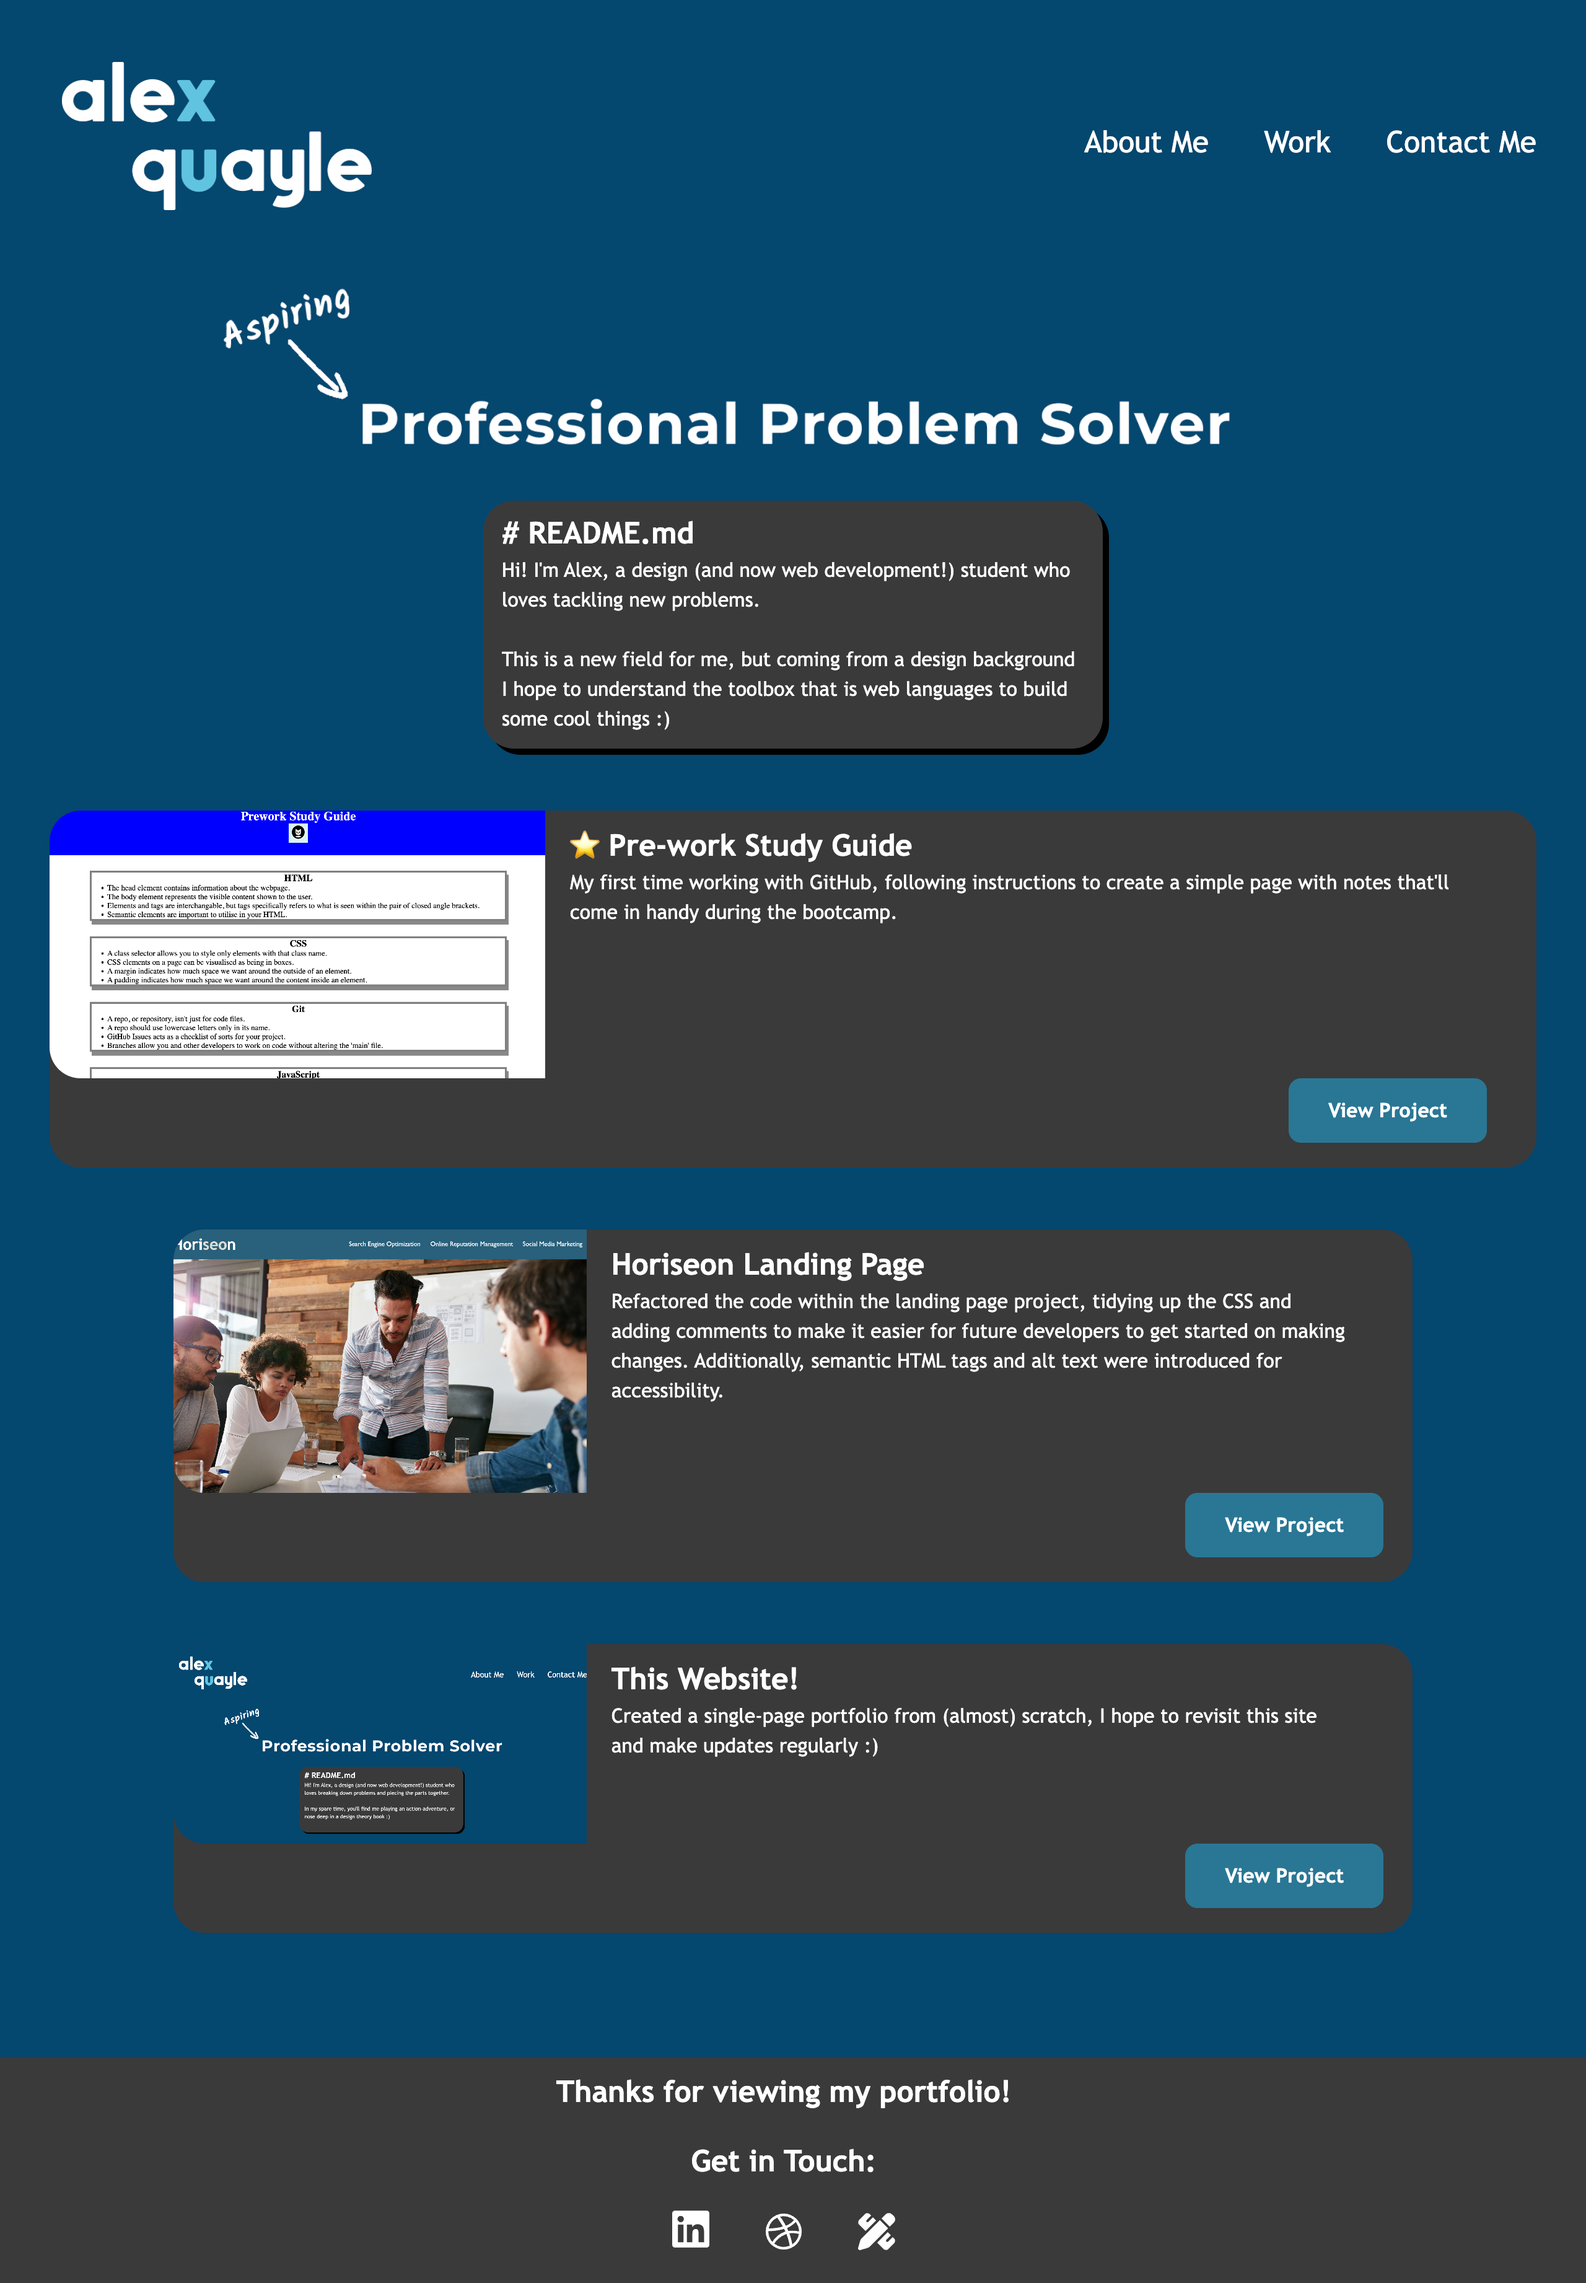
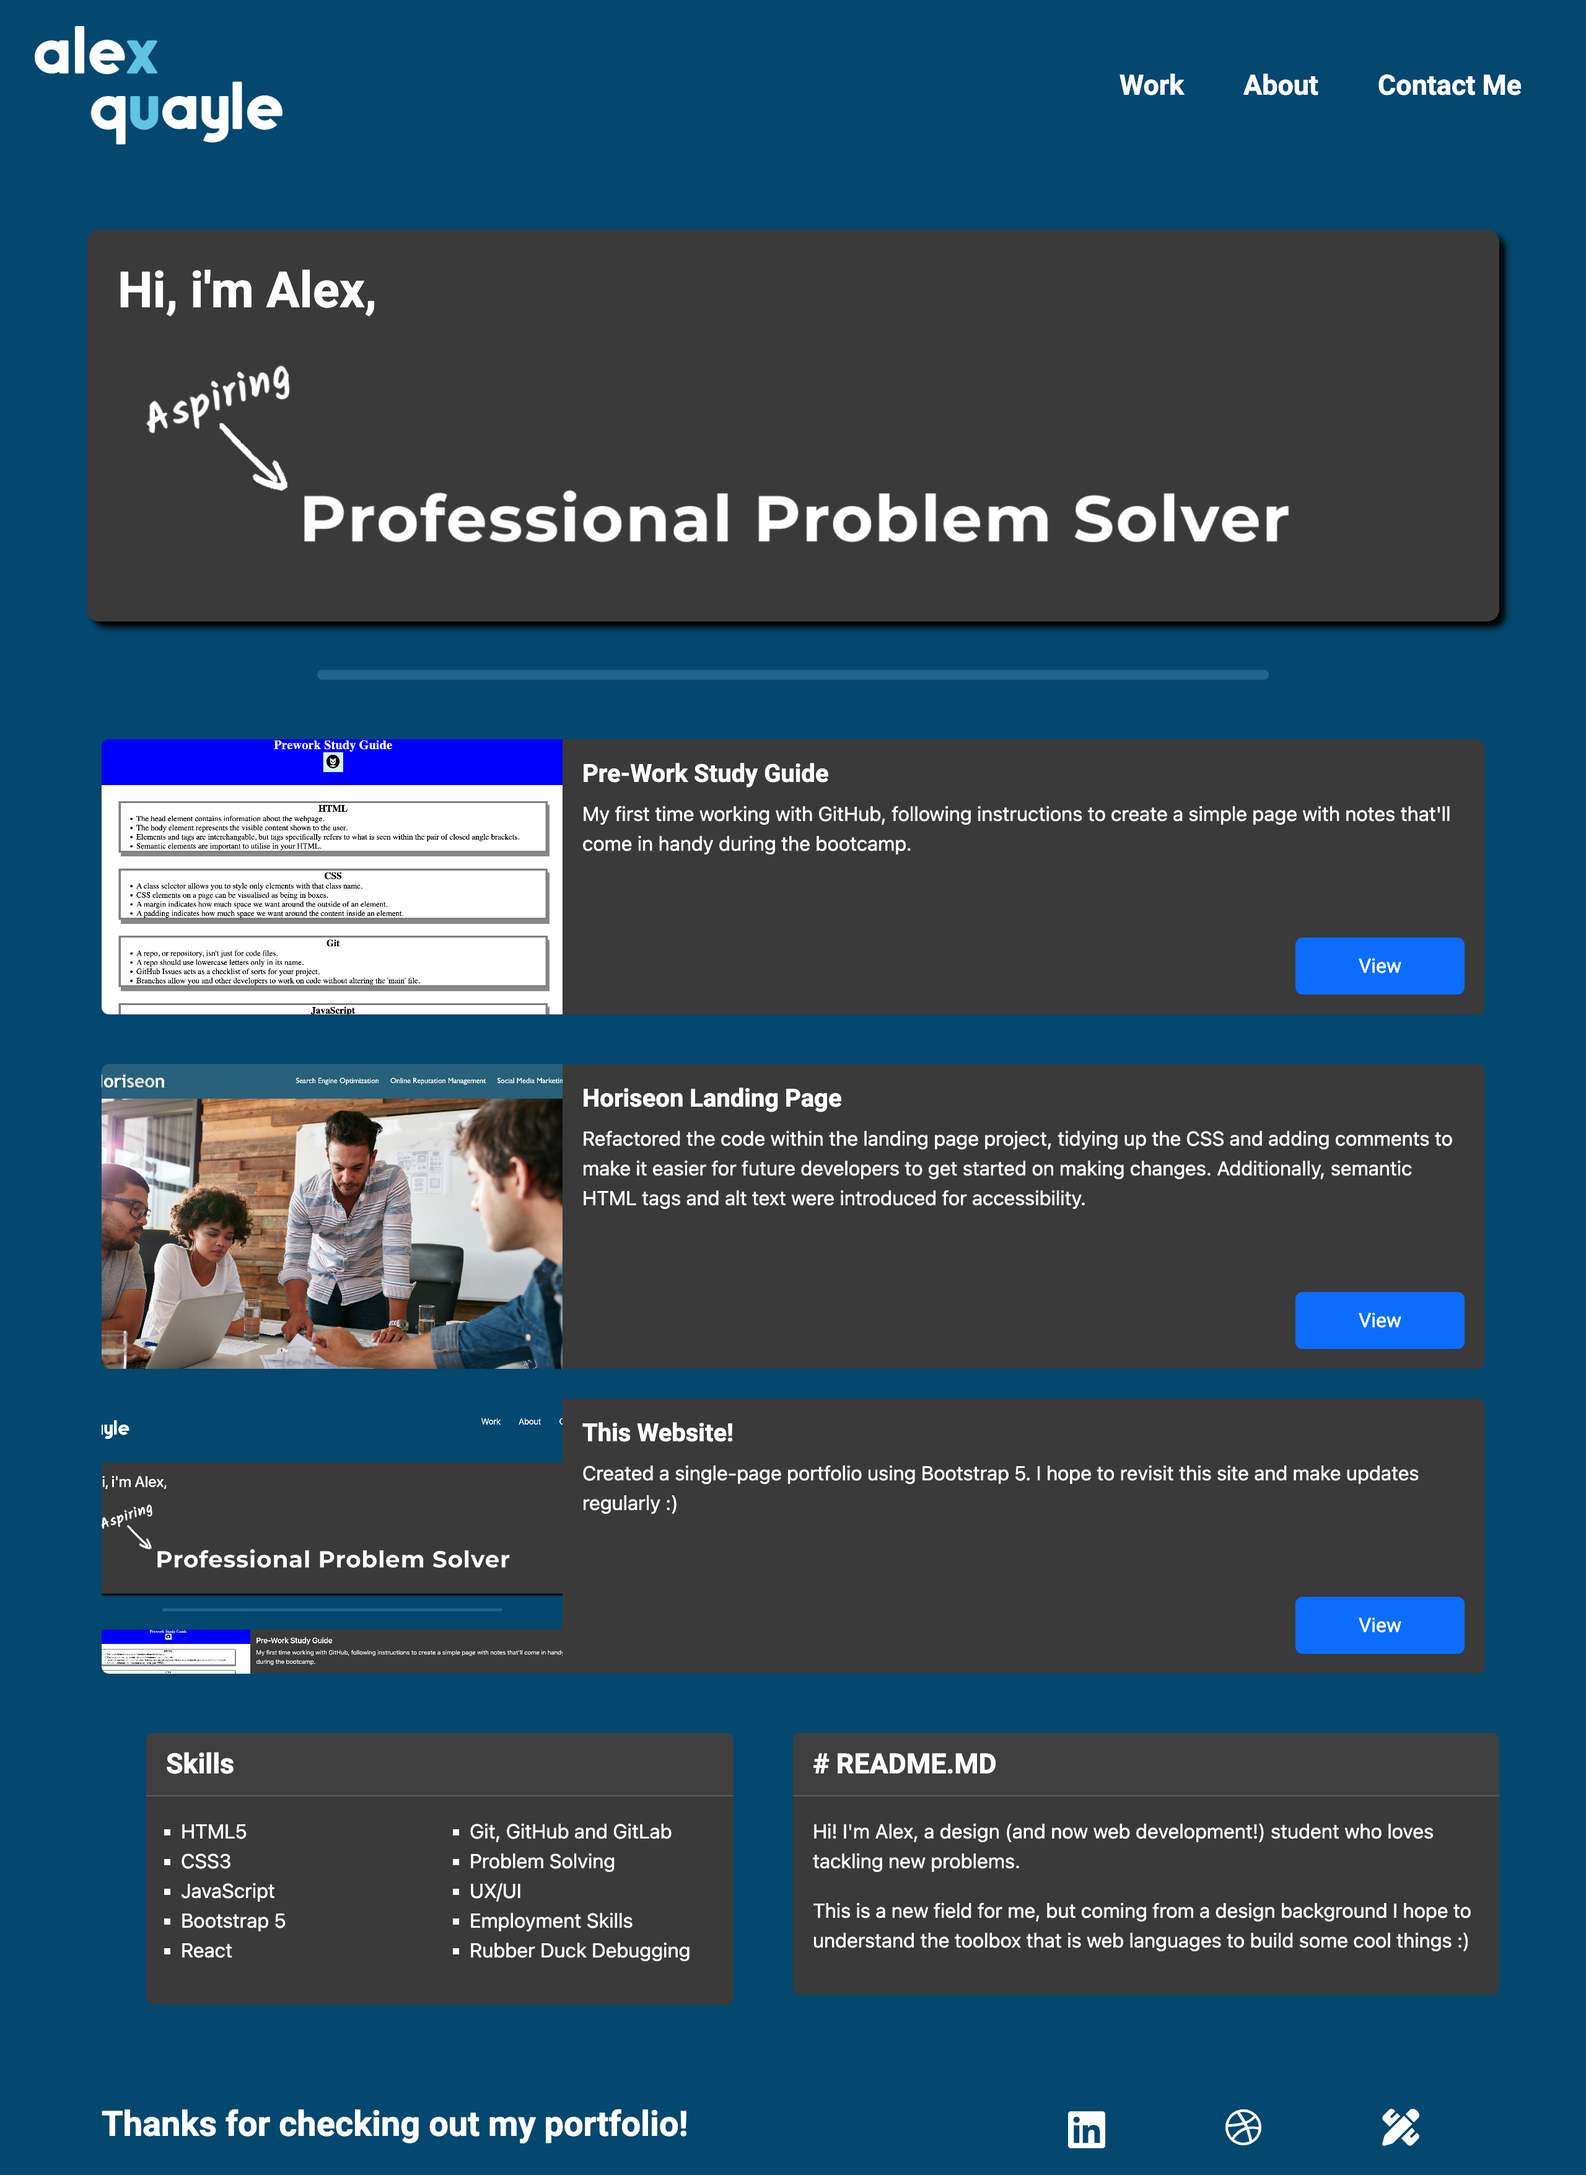
Populated README.

diff --git a/README.md b/README.md
@@ -1,1 +1,44 @@
-# bootstrap-portfolio
+# Portfolio (Recreated With Bootstrap)
+
+## Description
+
+This project is a recreation of my previously made webpage, this time utilising Bootstrap components and grid system. I found this not only to be a massive timesaver, but a framework that helped build my confidence with layout systems, helping me understand Flexbox a little better and introducing me to Bootstrap grid, a third option for layouts going forward.
+
+I chose to keep the same layout as the previous portfolio, as I had spent a lot of time visually designing the layout. With the time I saved, I plan to work on some projects to populate the portfolio with.
+
+## Installation
+
+No installation necessary. Please visit https://alex-quayle.github.io/bootstrap-portfolio/ to view the webpage. Below is a screenshot of the deployed page:
+![A screenshot of the portfolio page.](./images/portfolio-shot.png "Portfolio Page")
+
+## Credits
+
+### Social Link Icons
+
+> Dribbble. (n.d.). dribbble logo [ logo ]. Font Awesome. https://fontawesome.com/icons/dribbble?f=brands&s=solid.
+
+> Font Awesome. (n.d.). pen-ruler [ logo ]. Font Awesome. https://fontawesome.com/icons/pen-ruler?f=classic&s=solid.
+
+> LinkedIn Corporation. (n.d.). linkedin logo [ logo ]. Font Awesome. https://fontawesome.com/icons/linkedin?f=brands&s=solid.
+
+### Learning Resources Utilised
+
+In addition to the following links, the class sessions held by the edX front-end bootcamp team have been invaluable for this challenge in my understanding of how to install, use and customise Bootstrap 5. Additionally, I re-used previous styling values, images and text copy from the previous challenge. For reference, that project can be found here: https://github.com/Alex-Quayle/web-development-portfolio
+
+> Bootstrap (n.d.) Cards. https://getbootstrap.com/docs/5.3/components/card/.
+
+> Bootstrap (n.d.) Columns. https://getbootstrap.com/docs/5.3/layout/columns/.
+
+> Bootstrap (n.d.) Grid System. https://getbootstrap.com/docs/5.3/layout/grid/.
+
+> Bootstrap (n.d.) Spacing. https://getbootstrap.com/docs/5.3/utilities/spacing/.
+
+> DevSprout. (2023, January 3). How to Use Google Fonts 2023. https://www.youtube.com/watch?v=uebo3MsVSe0.
+
+> Mozilla Developers Network (2023, September 25). box-shadow. https://developer.mozilla.org/en-US/docs/Web/CSS/box-shadow.
+
+> Robertson, C. (n.d.). Roboto. https://fonts.google.com/specimen/Roboto.
+
+> W3Schools (n.d.). CSS Lists. https://www.w3schools.com/css/css_list.asp.
+
+> W3Schools (n.d.). How TO - Divider. https://www.w3schools.com/howto/howto_css_dividers.asp.
